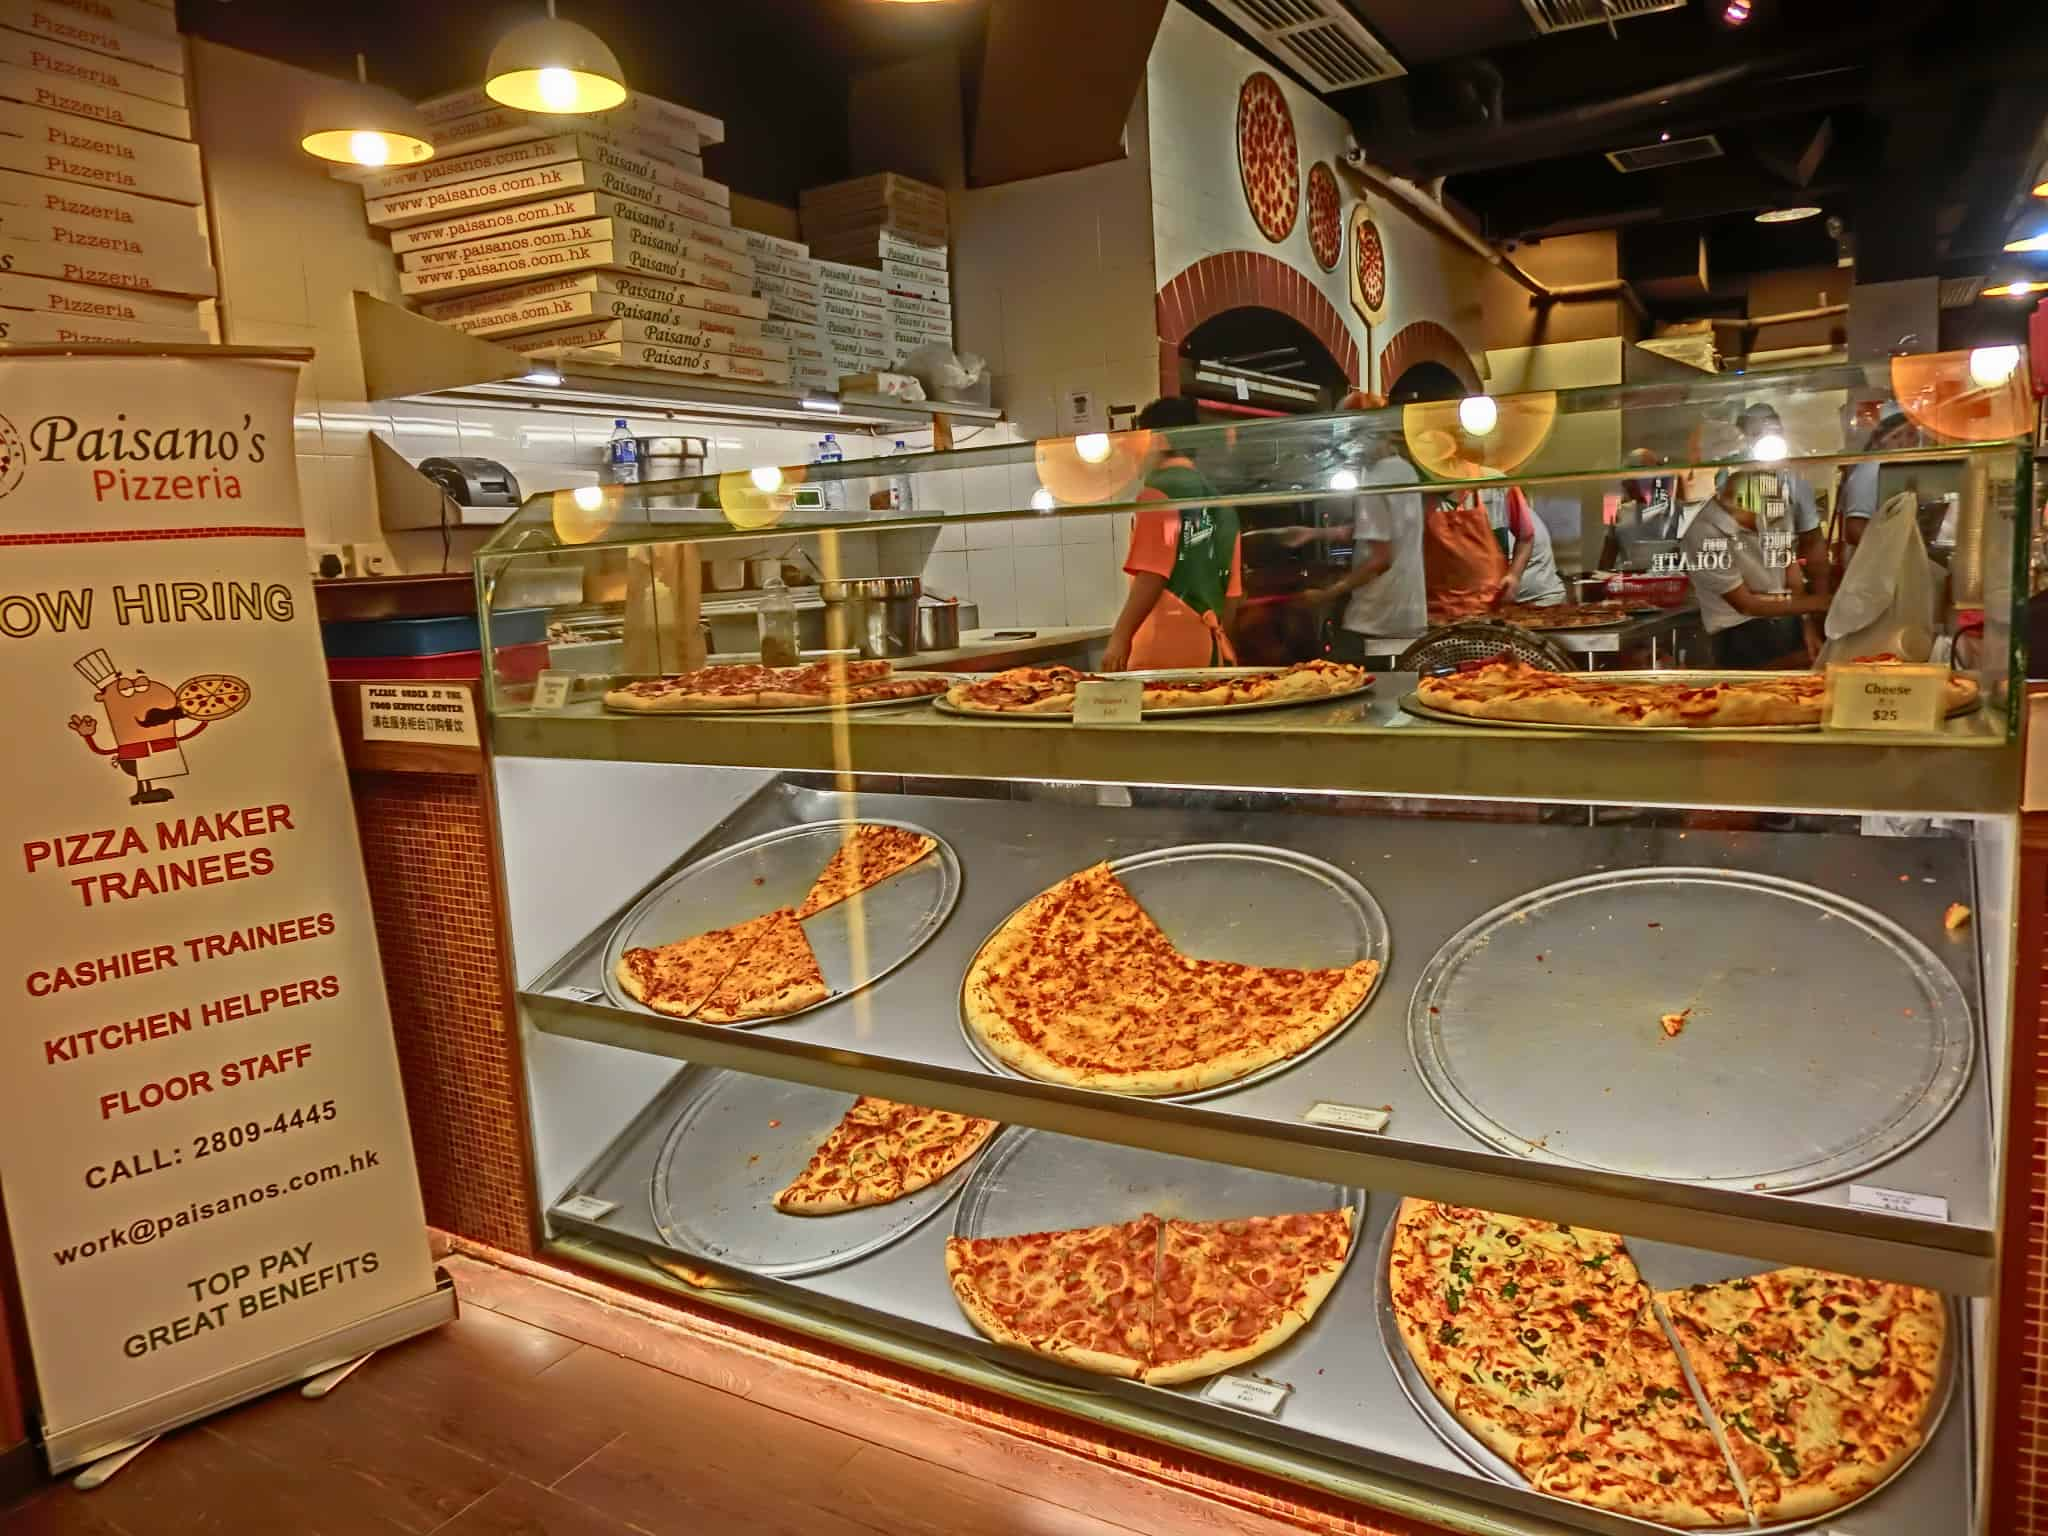
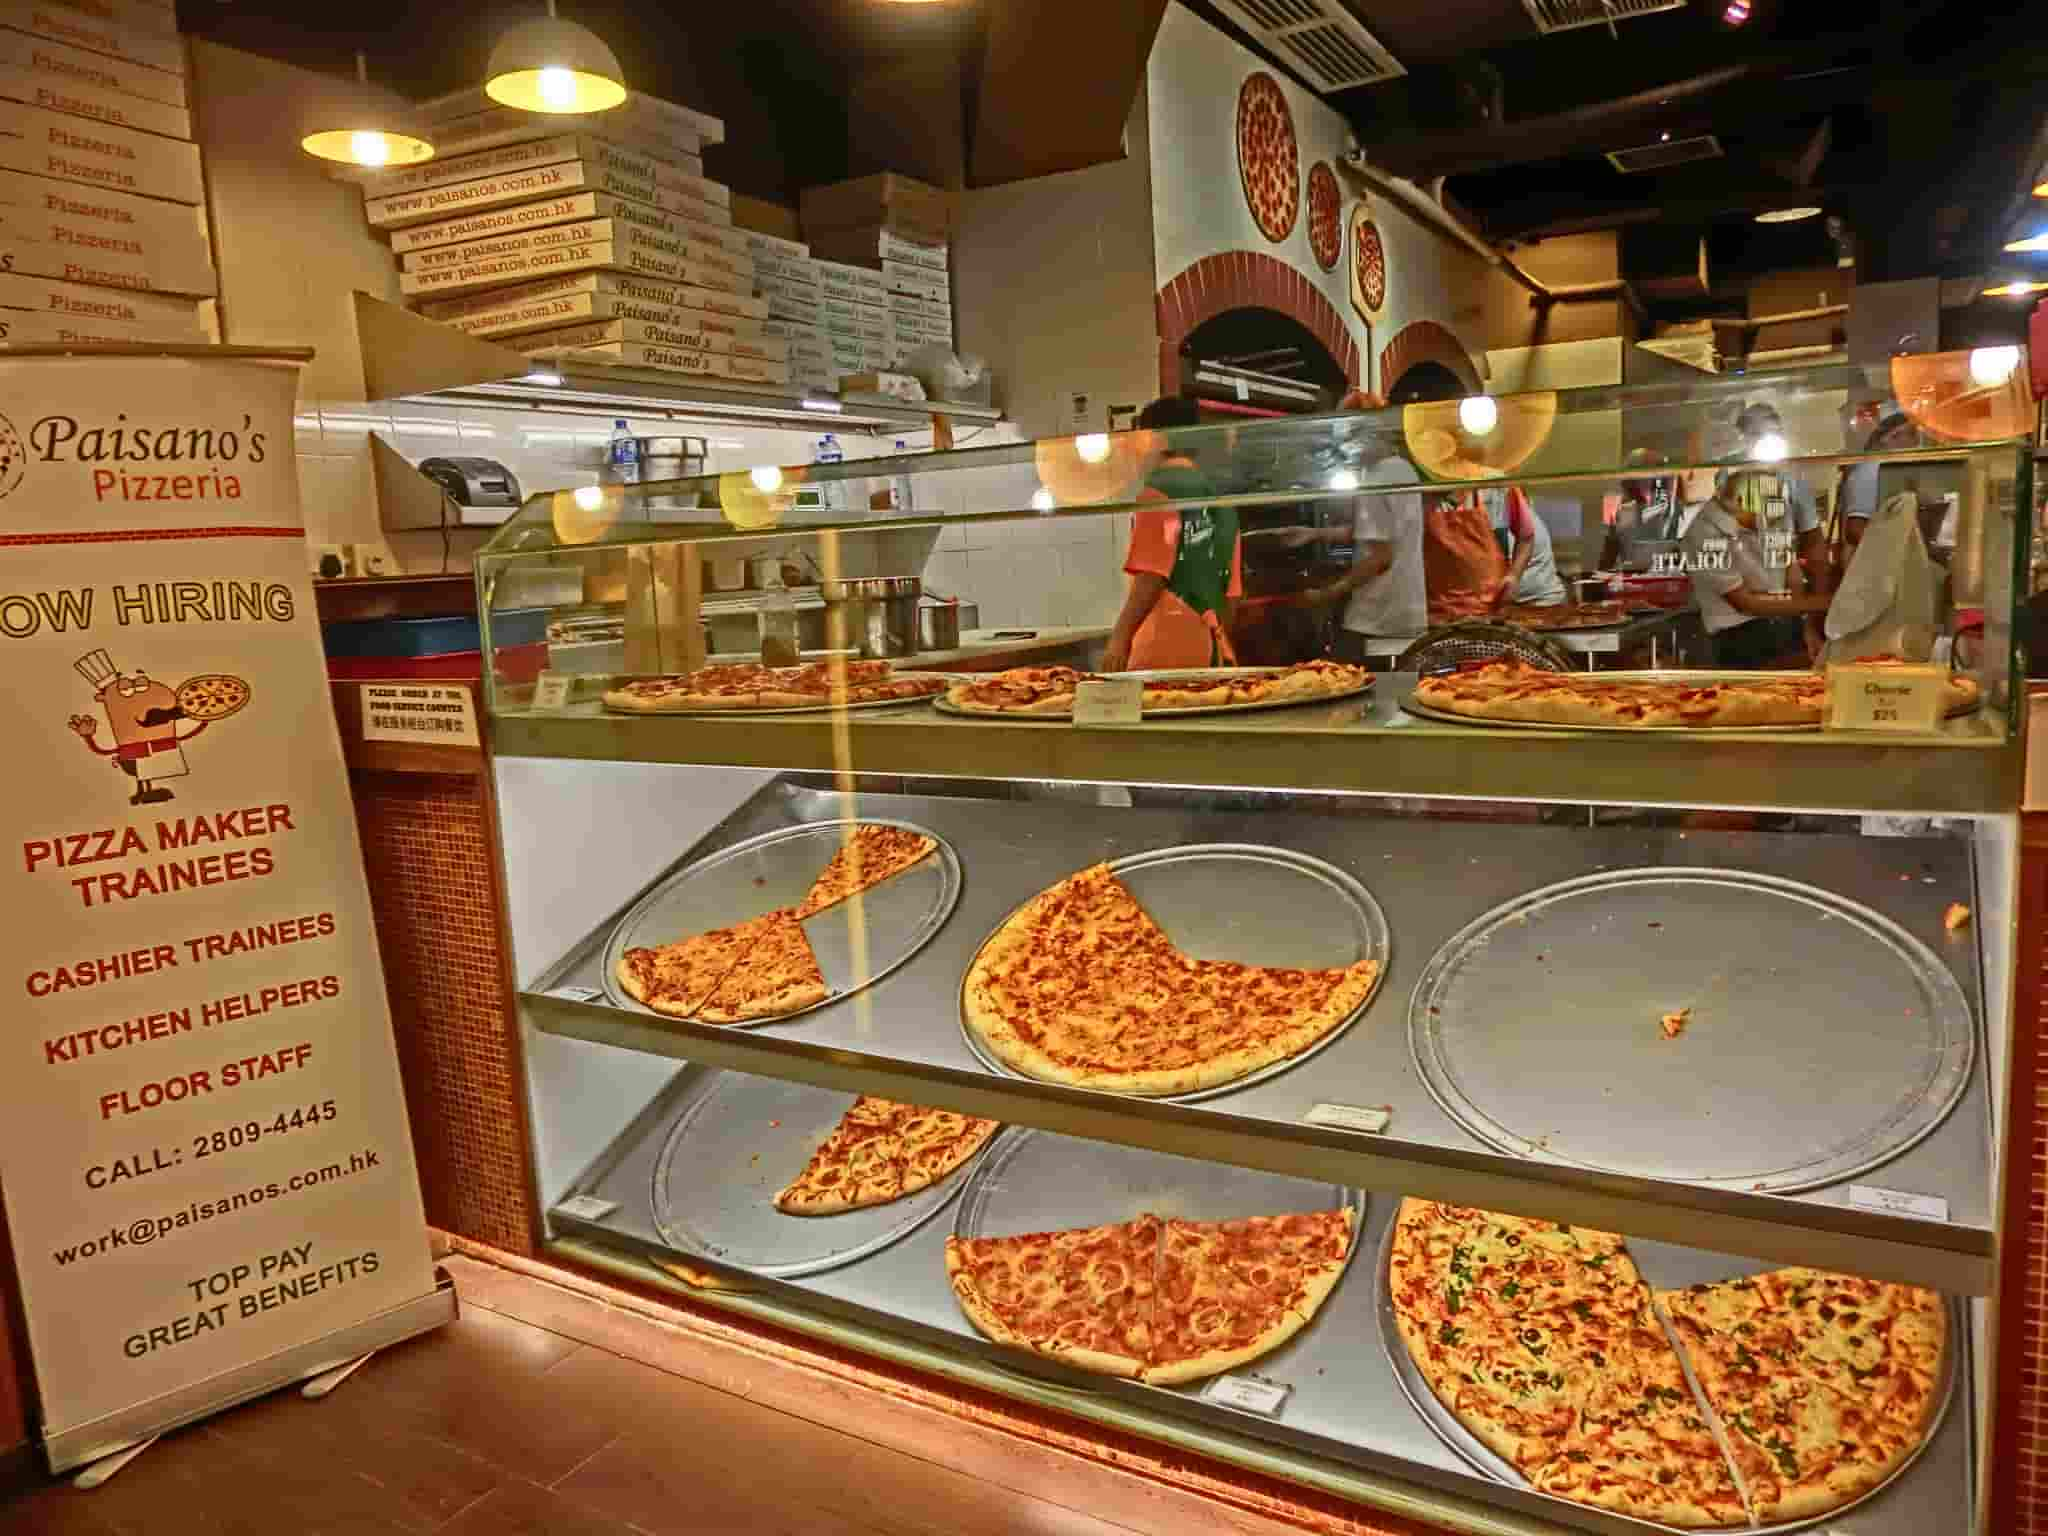
feat: even higher lossy jpg image compression

diff --git a/docs/gulpfile.js b/docs/gulpfile.js
@@ -182,7 +182,7 @@ gulp.task('imagemin', function() {
             }),
             //jpg very light lossy, use vs jpegtran
             imageminMozjpeg({
-                quality: 40
+                quality: 15
             })
         ]))
         .pipe(gulp.dest('./views/images/'));
